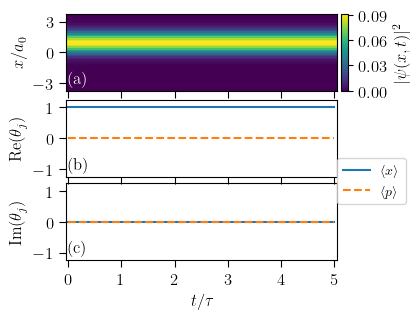
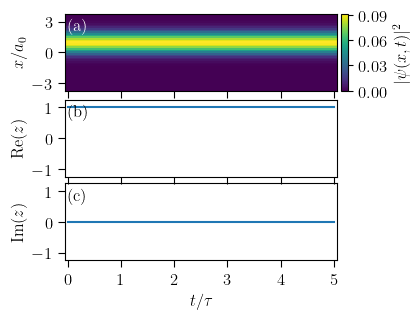
Some last changes

diff --git a/analysis.py b/analysis.py
@@ -242,7 +242,7 @@ class Dynamics:
         energy = torch.vdot(psi[:,0], H_psi[:,0]) / torch.vdot(psi[:,0], psi[:,0])
         return energy
     
-    def compute_variance(psi, x_grid):
+    def compute_variance(self):
         """
         Compute the variance of a state described by psi.
         Variance defined as: <x²> - <x>²
@@ -255,12 +255,12 @@ class Dynamics:
             variance (np.ndarray): Varaiance.
         """
         # Spatial grid operator
-        oper = torch.diag(x_grid.squeeze(-1))
-        oper2 = torch.matmul(oper, oper)
-        x1 = torch.einsum('ik,ij,jk->k', psi.conj(), oper2, psi)
-        x2 = torch.einsum('ik,ij,jk->k', psi.conj(), oper, psi) ** 2
-        variance = (x1 - x2) / torch.einsum('ij,ij->j', psi.conj(), psi)
-        return variance.detach().numpy()
+        oper = np.diag(self.x_grid.squeeze(-1).detach().numpy())
+        oper2 = np.matmul(oper, oper)
+        x1 = np.einsum('ki,ij,kj->k', self.psi.conj(), oper2, self.psi)
+        x2 = np.einsum('ki,ij,kj->k', self.psi.conj(), oper, self.psi) ** 2
+        variance = (x1 - x2) / np.einsum('ij,ij->i', self.psi.conj(), self.psi)
+        return variance
 
     def get_params(self, time_step=None):
         """

diff --git a/main.py b/main.py
@@ -30,7 +30,7 @@ seed = 1
 torch.manual_seed(seed)
 
 # Create the NN model
-num_params = 2 # only 1 or 2 parameters
+num_params = 1 # only 1 or 2 parameters
 model = Gaussian(num_params).to(device) 
 
 # Define Parameters
